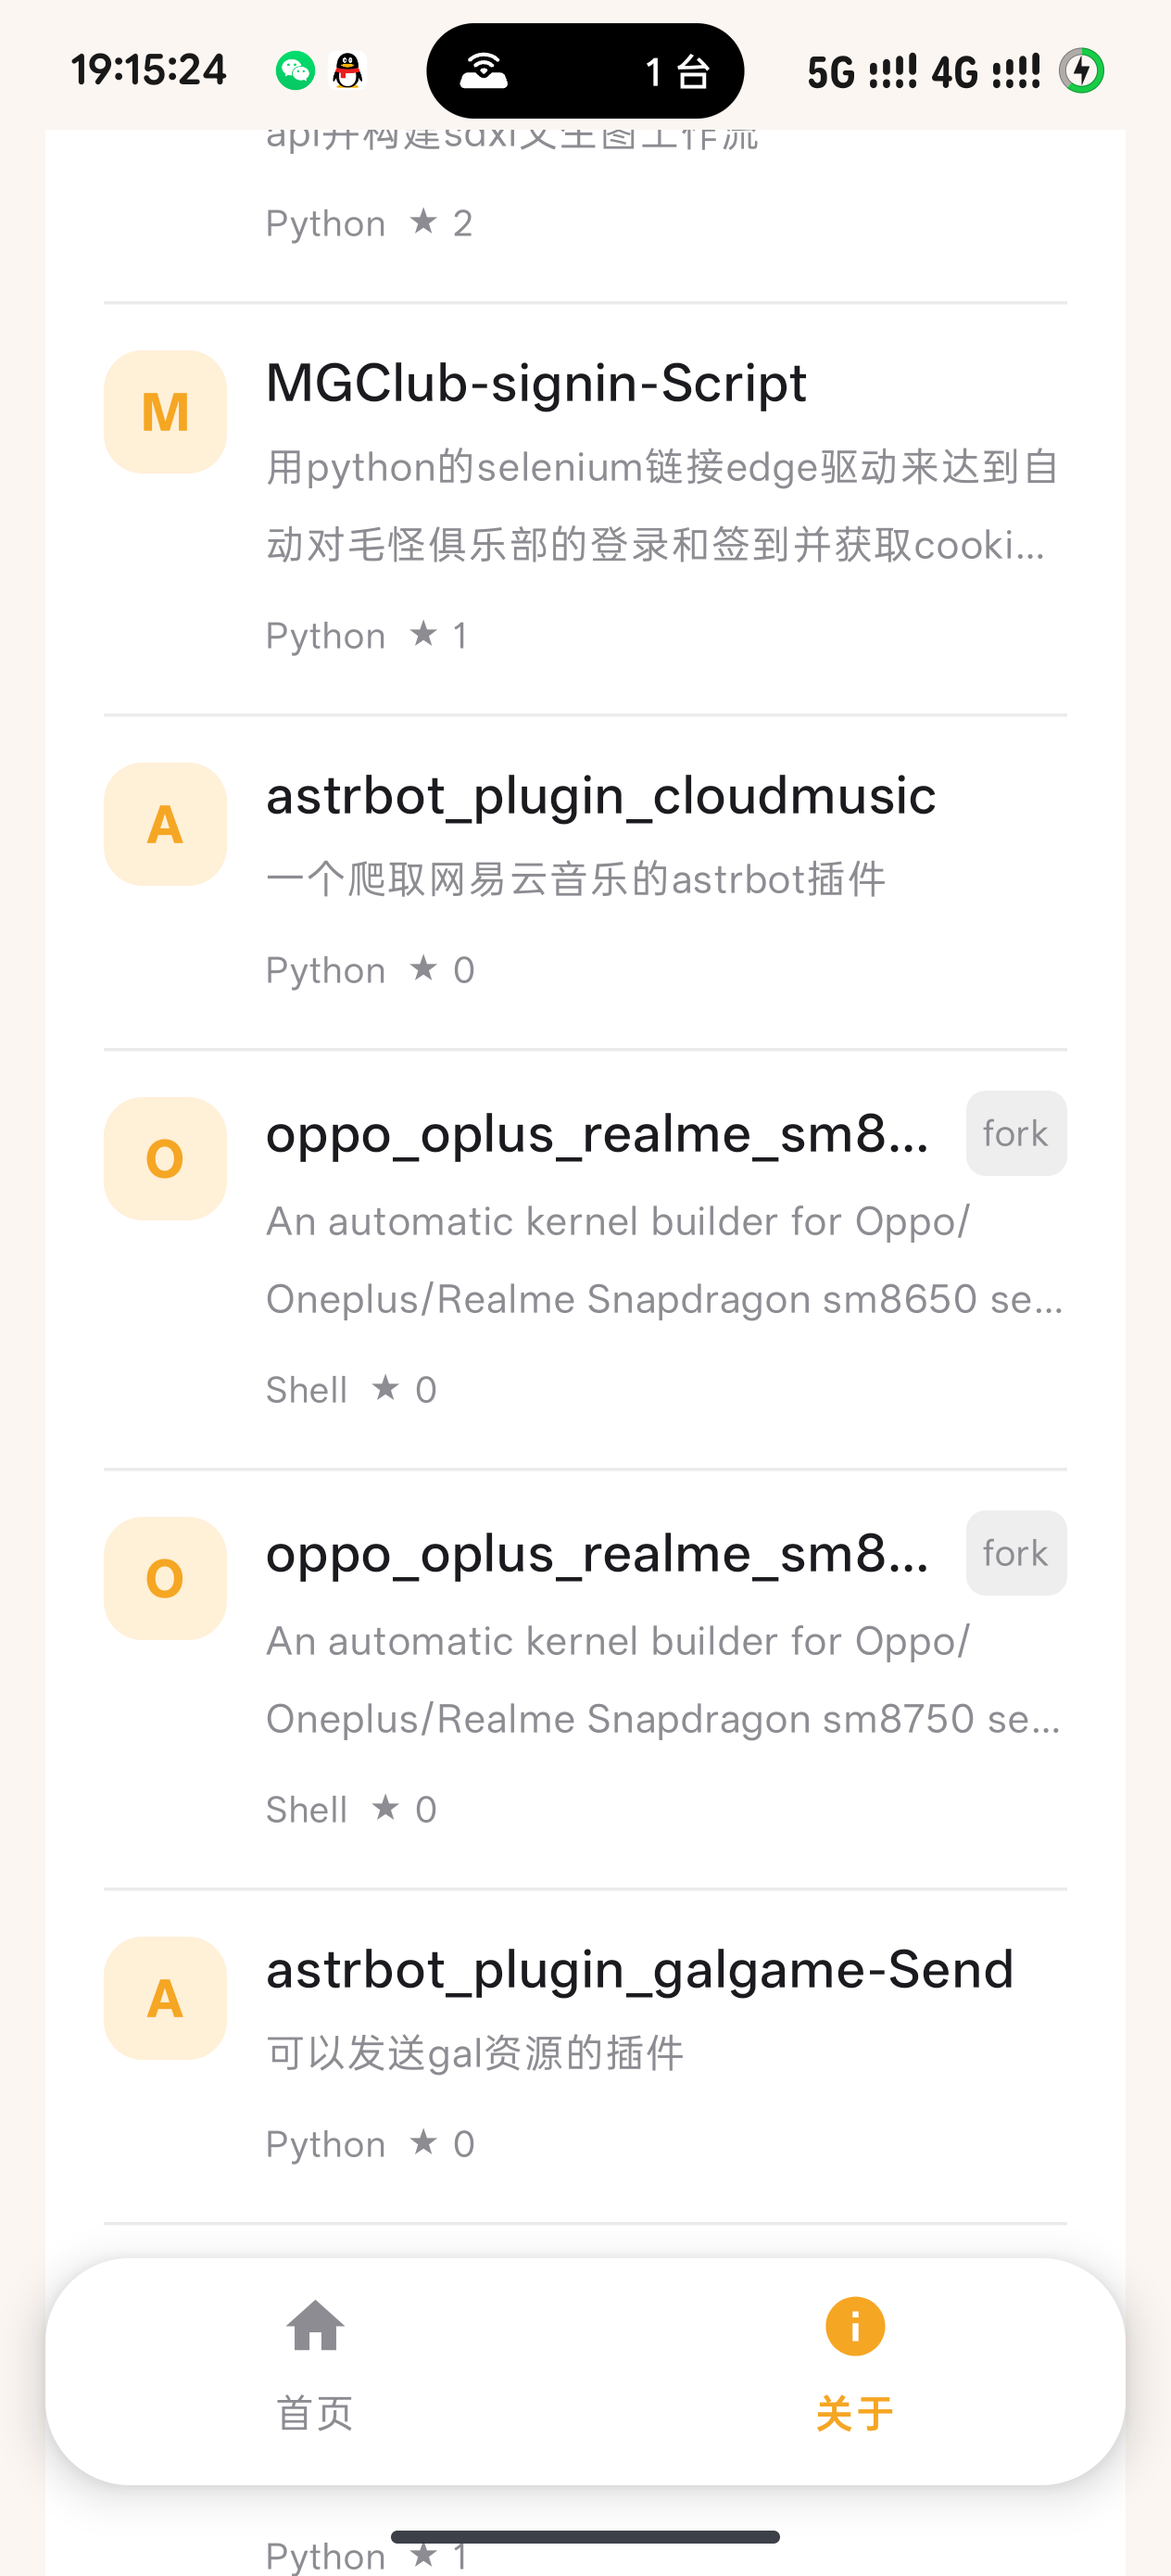
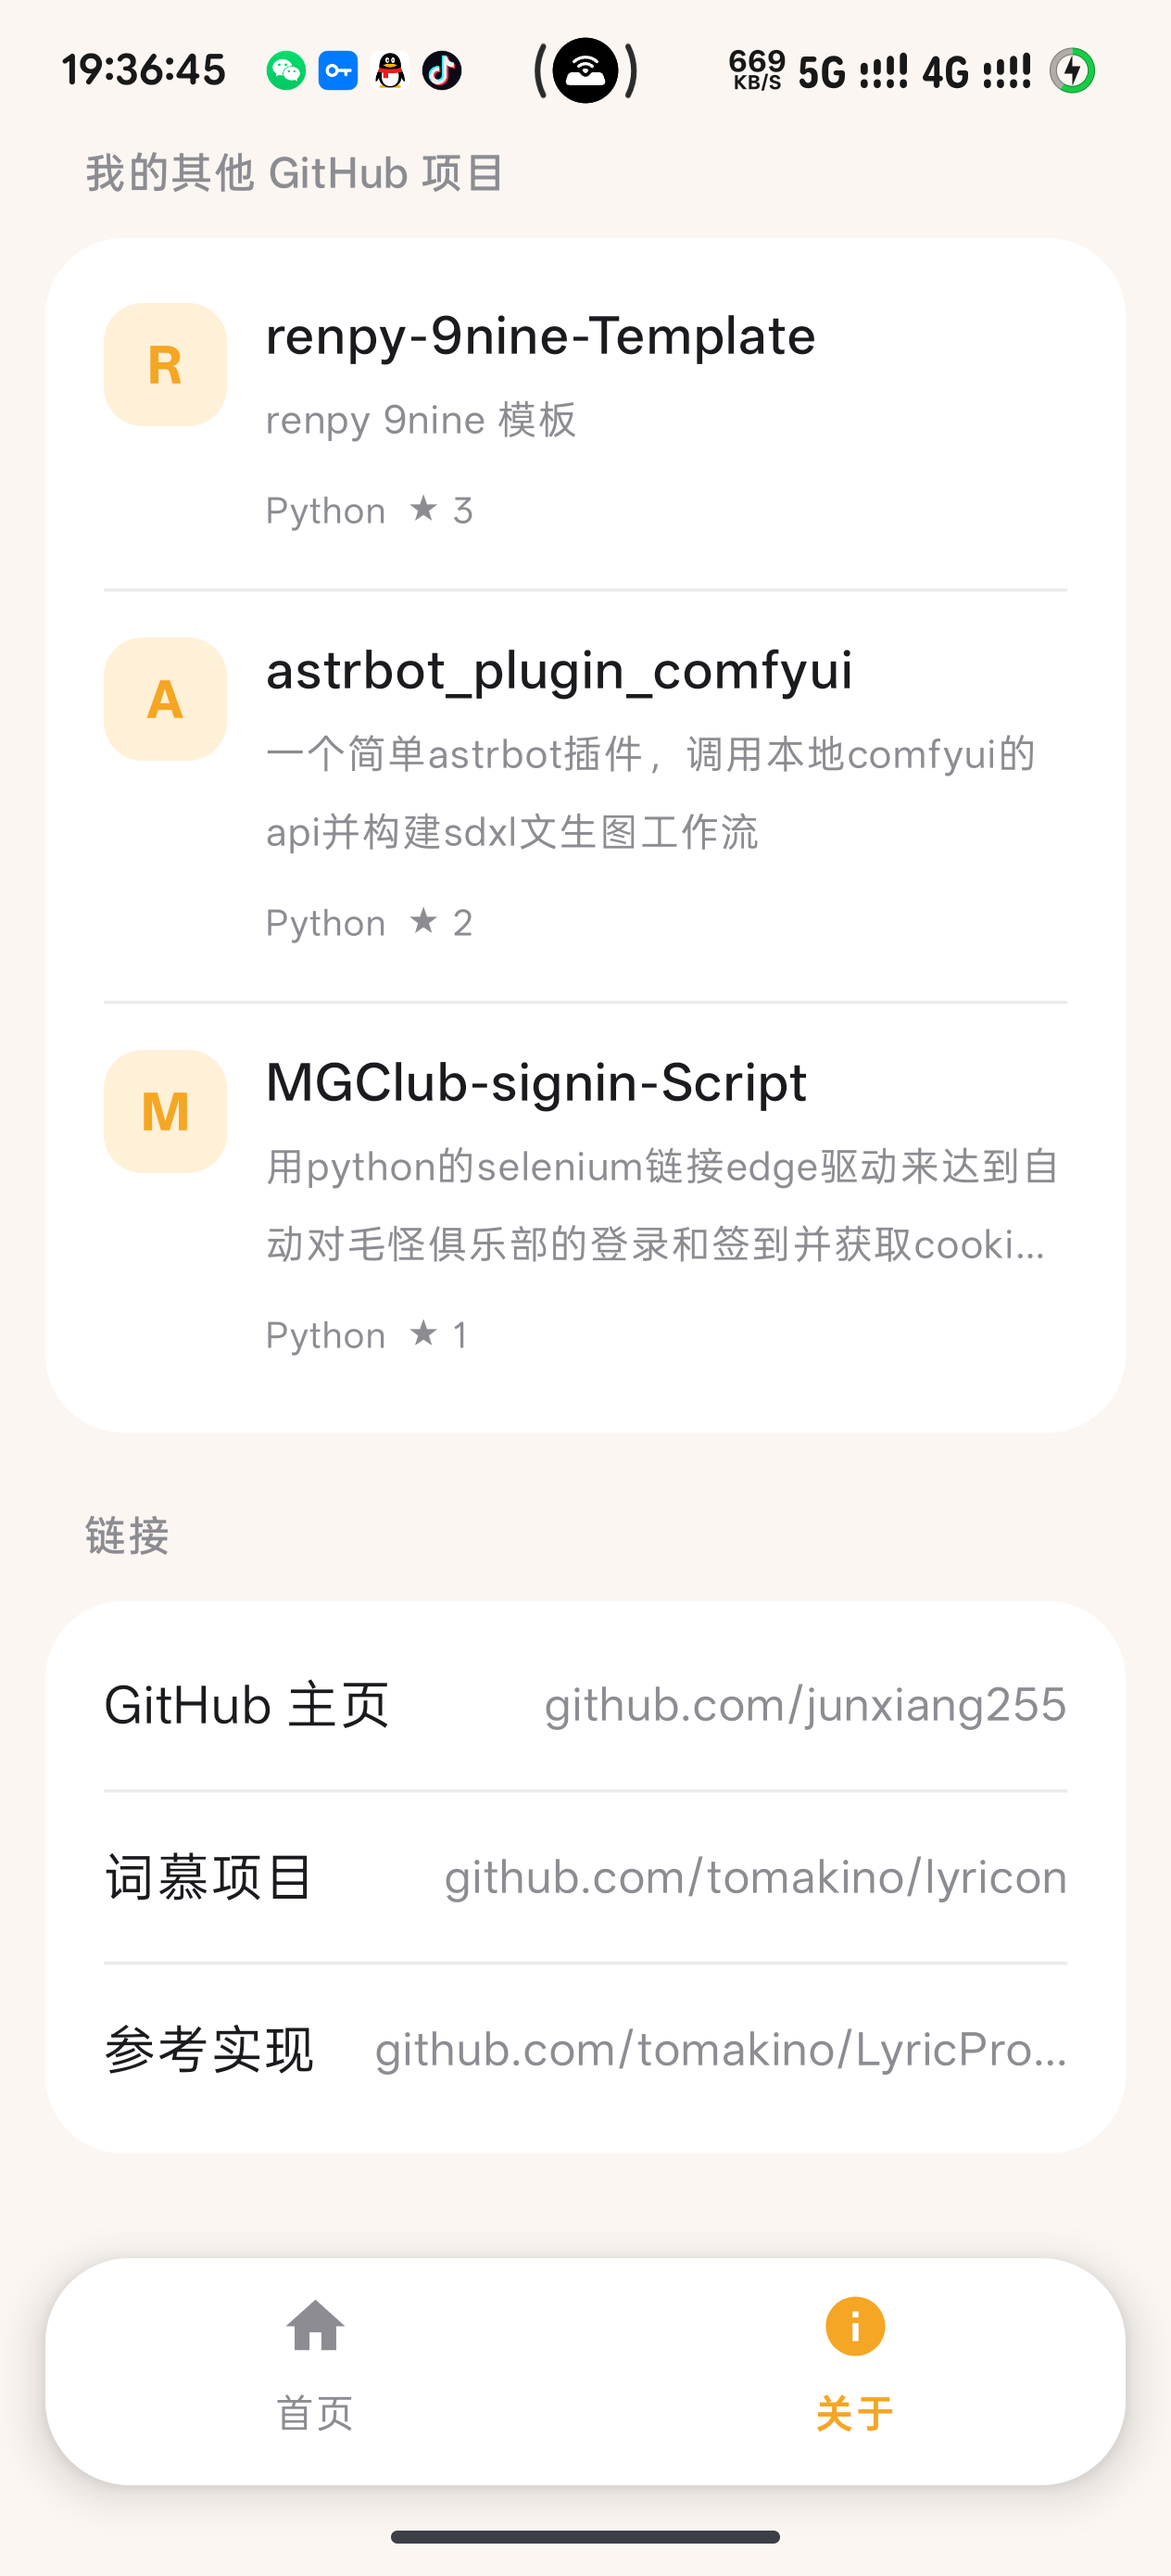
feat(about): 新增「本软件项目」，「我的其他 GitHub 项目」只显示 3 个非 fork 项目；修复信息行标题与值挤压

diff --git a/app/src/main/java/io/github/proify/lyricon/mgaprovider/ui/AboutScreen.kt b/app/src/main/java/io/github/proify/lyricon/mgaprovider/ui/AboutScreen.kt
@@ -113,16 +113,39 @@ fun AboutScreen(onOpenUrl: (String) -> Unit) {
             }
         }
 
-        SectionTitle(if (refreshing) "我的 GitHub 项目 · 更新中" else "我的 GitHub 项目")
+        // 本软件项目
+        val selfProject = remember(projects) {
+            val fromApi = projects.firstOrNull { it.name == GithubRepository.SELF_REPO }
+            GithubProject(
+                name = GithubRepository.SELF_REPO,
+                description = "词慕 · 毛怪助手歌词 —— 为毛怪助手提供歌词的 Lyricon provider",
+                language = "Kotlin",
+                stars = fromApi?.stars ?: 0,
+                isFork = false,
+                url = GithubRepository.SELF_URL,
+            )
+        }
+        val others = remember(projects) {
+            projects
+                .filter { !it.isFork && it.name != GithubRepository.SELF_REPO }
+                .take(3)
+        }
+
+        SectionTitle("本软件项目")
         GroupCard {
-            if (projects.isEmpty()) {
+            ProjectRow(selfProject) { onOpenUrl(selfProject.url) }
+        }
+
+        SectionTitle(if (refreshing) "我的其他 GitHub 项目 · 更新中" else "我的其他 GitHub 项目")
+        GroupCard {
+            if (others.isEmpty()) {
                 InfoRow("暂无缓存", "点击打开 GitHub") {
                     onOpenUrl(GithubRepository.PROFILE_URL)
                 }
             } else {
-                projects.forEachIndexed { index, project ->
+                others.forEachIndexed { index, project ->
                     ProjectRow(project) { onOpenUrl(project.url) }
-                    if (index != projects.lastIndex) RowDivider()
+                    if (index != others.lastIndex) RowDivider()
                 }
             }
         }

diff --git a/app/src/main/java/io/github/proify/lyricon/mgaprovider/ui/Components.kt b/app/src/main/java/io/github/proify/lyricon/mgaprovider/ui/Components.kt
@@ -30,6 +30,7 @@ import androidx.compose.ui.draw.clip
 import androidx.compose.ui.graphics.Color
 import androidx.compose.ui.graphics.vector.ImageVector
 import androidx.compose.ui.text.font.FontWeight
+import androidx.compose.ui.text.style.TextAlign
 import androidx.compose.ui.text.style.TextOverflow
 import androidx.compose.ui.unit.dp
 import androidx.compose.ui.unit.sp
@@ -146,14 +147,16 @@ fun InfoRow(title: String, value: String, onClick: (() -> Unit)? = null) {
             .padding(horizontal = 18.dp, vertical = 14.dp),
         verticalAlignment = Alignment.CenterVertically,
     ) {
-        Text(title, color = MgColors.TextPrimary, fontSize = 16.sp)
-        Spacer(Modifier.weight(1f))
+        Text(title, color = MgColors.TextPrimary, fontSize = 16.sp, maxLines = 1)
+        Spacer(Modifier.width(16.dp))
         Text(
             value,
             color = MgColors.TextSecondary,
             fontSize = 14.sp,
             maxLines = 1,
             overflow = TextOverflow.Ellipsis,
+            textAlign = TextAlign.End,
+            modifier = Modifier.weight(1f),
         )
     }
 }

diff --git a/app/src/main/java/io/github/proify/lyricon/mgaprovider/ui/GithubRepository.kt b/app/src/main/java/io/github/proify/lyricon/mgaprovider/ui/GithubRepository.kt
@@ -31,6 +31,10 @@ object GithubRepository {
     const val BIO = "新来的毛怪"
     const val PROFILE_URL = "https://github.com/junxiang255"
 
+    /** 本软件自身的仓库 */
+    const val SELF_REPO = "Lyricon-MGAide-Provider"
+    const val SELF_URL = "https://github.com/junxiang255/Lyricon-MGAide-Provider"
+
     private const val CACHE_FILE = "github_repos.json"
     private const val TIME_FILE = "github_repos.fetched_at"
     private const val TTL_MS = 24L * 60 * 60 * 1000L

diff --git a/README.md b/README.md
@@ -18,6 +18,9 @@
 | 状态栏歌词随播放进度滚动 | ✅ |
 | 模块首页「状态栏歌词」开关（Miuix 风格 UI） | ✅ |
 | 开关即时生效（无需重启毛怪助手），关闭后清空词慕歌词 | ✅ |
+| 关于页：头像 / junxiang255 / 简介「新来的毛怪」 / GitHub 项目列表 | ✅ |
+| GitHub API 每天只拉取一次，其余时间读本地缓存 | ✅ |
+
 > 不向毛怪助手界面注入任何悬浮窗或界面元素，所有开关都在本模块 App 内。
 
 ## 界面
@@ -73,6 +76,12 @@ hook 在毛怪助手进程，开关 UI 在模块进程：
 - `ConfigProvider`（`io.github.proify.lyricon.mgaprovider.config`，exported）用 `call("export")` 返回开关值
 - hook 侧 `MgPrefs.isEnabled()` 用 `ContentResolver.call` 读取，800 ms 缓存
 
+### 4. GitHub 项目列表：每天一次
+
+- `LaunchedEffect` 进入关于页时判断 `shouldRefresh()`：距上次拉取 > 24h 或无缓存才请求
+- 请求 `api.github.com/users/junxiang255/repos?sort=updated&per_page=30`
+- 成功后写 `filesDir/github_repos.json` 与 `filesDir/github_repos.fetched_at`
+- 其余时间直接用缓存，无网络请求；失败时回退缓存
 
 ## 目录结构
 
